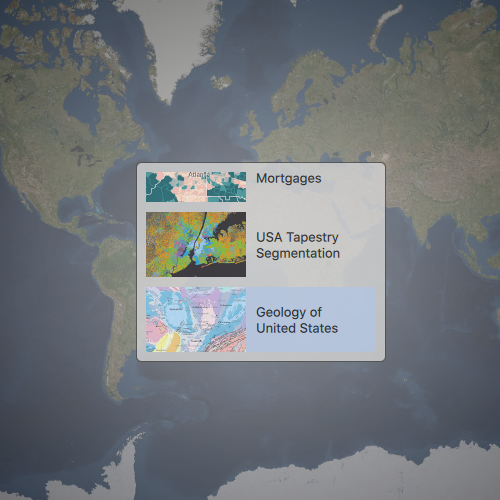
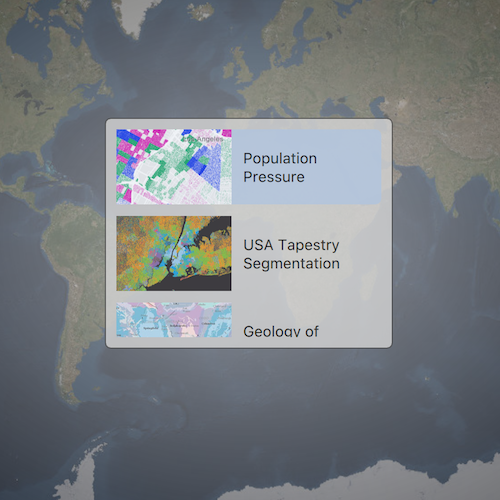
updating map URL as existing map layer had an old certificate

diff --git a/ArcGISRuntimeSDKQt_CppSamples/Maps/OpenMapUrl/OpenMapUrl.qml b/ArcGISRuntimeSDKQt_CppSamples/Maps/OpenMapUrl/OpenMapUrl.qml
@@ -37,7 +37,7 @@ OpenMapUrlSample {
     // Create a list model with information about different webmaps
     ListModel {
        id: webmapsListModel
-       ListElement { itemTitle: "Housing with Mortgages"; imageUrl: "qrc:/Samples/Maps/OpenMapUrl/Housing.png"; itemId: "2d6fa24b357d427f9c737774e7b0f977"}
+       ListElement { itemTitle: "Population Pressure"; imageUrl: "qrc:/Samples/Maps/OpenMapUrl/population.png"; itemId: "392451c381ad4109bf04f7bd442bc038"}
        ListElement { itemTitle: "USA Tapestry Segmentation"; imageUrl: "qrc:/Samples/Maps/OpenMapUrl/Tapestry.png"; itemId: "01f052c8995e4b9e889d73c3e210ebe3"}
        ListElement { itemTitle: "Geology of United States"; imageUrl: "qrc:/Samples/Maps/OpenMapUrl/geology.jpg"; itemId: "92ad152b9da94dee89b9e387dfe21acd"}
     }

diff --git a/ArcGISRuntimeSDKQt_QMLSamples/Maps/OpenMapUrl/OpenMapUrl.qml b/ArcGISRuntimeSDKQt_QMLSamples/Maps/OpenMapUrl/OpenMapUrl.qml
@@ -38,7 +38,7 @@ Rectangle {
     // Create a list model with information about different webmaps
     ListModel {
         id: webmapListModel
-        ListElement { itemTitle: "Housing with Mortgages"; imageUrl: "qrc:/Samples/Maps/OpenMapUrl/Housing.png"; itemId: "2d6fa24b357d427f9c737774e7b0f977"}
+        ListElement { itemTitle: "Population Pressure"; imageUrl: "qrc:/Samples/Maps/OpenMapUrl/population.png"; itemId: "392451c381ad4109bf04f7bd442bc038"}
         ListElement { itemTitle: "USA Tapestry Segmentation"; imageUrl: "qrc:/Samples/Maps/OpenMapUrl/Tapestry.png"; itemId: "01f052c8995e4b9e889d73c3e210ebe3"}
         ListElement { itemTitle: "Geology of United States"; imageUrl: "qrc:/Samples/Maps/OpenMapUrl/geology.jpg"; itemId: "92ad152b9da94dee89b9e387dfe21acd"}
     }

diff --git a/ArcGISRuntimeSDKQt_CppSamples_Widgets/Maps/OpenExistingMap/OpenExistingMap.cpp b/ArcGISRuntimeSDKQt_CppSamples_Widgets/Maps/OpenExistingMap/OpenExistingMap.cpp
@@ -80,7 +80,7 @@ OpenExistingMap::~OpenExistingMap()
 
 void OpenExistingMap::createPortalMaps()
 {
-    m_portalIds.insert("Housing with Mortgages", "2d6fa24b357d427f9c737774e7b0f977");
+    m_portalIds.insert("Population Pressure", "392451c381ad4109bf04f7bd442bc038");
     m_portalIds.insert("USA Tapestry Segmentation", "01f052c8995e4b9e889d73c3e210ebe3");
     m_portalIds.insert("Geology of United States", "92ad152b9da94dee89b9e387dfe21acd");
 }
